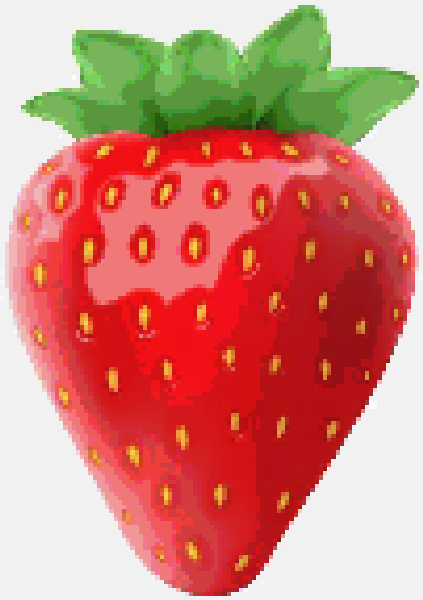
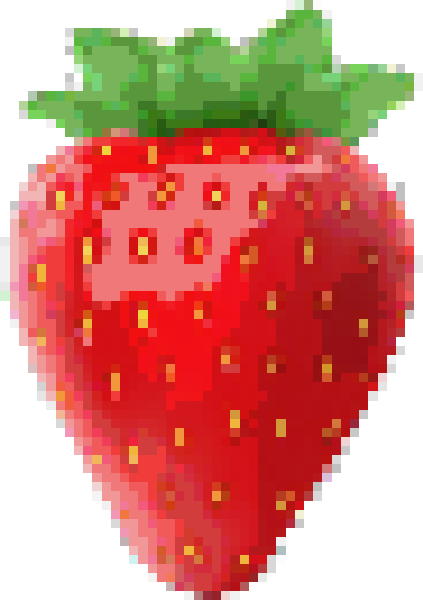
完成版

diff --git a/templates/upload.html b/templates/upload.html
@@ -22,7 +22,5 @@
                 <br><br>
                 <input type="image" src="/static/img/upload.PNG" alt="Submit" width="180" height="80">
             </form>
-        
-    </div>
 </body>
 </html>

diff --git a/make_transparent.py b/make_transparent.py
@@ -4,51 +4,15 @@ import numpy as np
 
 app = Flask(__name__)
 
-# 白色部分の透過処理を行う
-def make_transparent(img, target_color):
-    # BGR形式でのターゲット色
-    target_color_bgr = np.array(target_color[::-1])
+# 他の関数やファイルから make_transparent を呼び出せるようにする
+def make_transparent(img):
+    # アルファチャンネルを持っていない場合は作成する
+    if img.shape[2] == 3:
+        img = cv2.cvtColor(img, cv2.COLOR_BGR2BGRA)
 
-    # 白色部分に対応するマスク画像を生成
-    mask = np.all(img[:, :, :3] == [255, 255, 255], axis=-1)
-
-    # 元画像をBGR形式からBGRA形式に変換
-    img_with_alpha = cv2.cvtColor(img, cv2.COLOR_BGR2BGRA)
-
-    # マスク画像をもとに、白色部分を透明化
-    img_with_alpha[mask, 3] = 0
-
-    return img_with_alpha
-
-
-@app.route('/upload', methods=['POST'])
-def upload():
-    # フォームから送信されたファイルを取得
-    uploaded_file = request.files['file']
-
-    # ユーザーが指定したピクセルサイズを取得
-    pixel_size = int(request.form['pixel_size'])
-
-    # ユーザーが選択したファイルフォーマットを取得
-    file_format = request.form['file_format']
-
-    # 画像を透過させる処理（PNGの場合のみ）
-    if file_format == 'png':
-        img = cv2.imread(uploaded_file.filename, cv2.IMREAD_UNCHANGED)
-
-        # 透過させる処理（make_transparent関数を利用）
-        img_with_alpha = make_transparent(img, [255, 255, 255])
-
-        # 画像保存
-        cv2.imwrite("output.png", img_with_alpha)
-
-    # その他の処理（JPGの場合など）
-    return render_template('result.html', result_message='変換が完了しました。')
-
-# 通常、Pythonスクリプトは他のスクリプトからインポートされると、そのスクリプトの中身が実行されることはない。
-# しかし、直接実行された場合、__name__ は '__main__' となる。
-# この条件文は、スクリプトが直接実行された場合のみ app.run(debug=True) を実行するようにする。
-# これにより、モジュールとして他のスクリプトからインポートされたときには、app.run が実行されずに Flask アプリケーションが開始されないようになる。
-# つまり、「もしこのスクリプトが直接実行されたら、Flaskアプリをデバッグモードで実行する」という役割
-if __name__ == '__main__':
-    app.run(debug=True)
+    # 白い部分を検知してマスクを作成(whitesmoke[245,245,245])
+    white_mask = np.all(img[:, :, :3] >= [245, 245, 245], axis=-1)
+    
+    # 白い部分を無色透明にする
+    img[white_mask] = [0, 0, 0, 0]
+    return img

diff --git a/app.py b/app.py
@@ -19,6 +19,7 @@ app.config['UPLOAD_FOLDER'] = UPLOAD_FOLDER
 def index():
     return render_template('upload.html')
 
+
 # @app.route('/upload', methods=['POST']) によって定義されており、HTTPメソッドがPOSTであるリクエストに対応
 @app.route('/upload', methods=['POST'])
 def upload():
@@ -46,7 +47,7 @@ def upload():
         # 画像の読み込みと処理
         """ cv2.imread() は、指定されたファイルから画像を読み込み
             img は、OpenCVのNumPy配列として画像が格納"""
-        img = cv2.imread(filename)
+        img = cv2.imread(filename,cv2.IMREAD_UNCHANGED)
 
         """request.form['pixel_size'] は、アップロードされたフォームデータからピクセルサイズに関する値を取得。
             この値はフォームから送信されたもので、ユーザーが指定したピクセルサイズを表します。
@@ -63,9 +64,11 @@ def upload():
 
         elif request.form['file_format'] == 'png':
             # 透過処理も追加（未完成）
-            img_with_alpha = make_transparent(img, (255, 255, 255))
+            img_with_alpha = make_transparent(img)
             mosaic_img = mosaic(img_with_alpha, alpha)
             dc_img = decreaseColor(mosaic_img)
+            print(img_with_alpha)
+            
 
         # 処理結果の保存
         result_filename = os.path.join(app.config['UPLOAD_FOLDER'], 'result_image.' + request.form['file_format'])
@@ -81,5 +84,8 @@ def upload():
     app.run(debug=True) は、Flaskアプリケーションをデバッグモードで実行するためのメソッド
     このコードの目的は、スクリプトが直接実行されるときに、Flaskアプリケーションを起動すること。
     通常、開発段階では debug=True を使用して簡単にデバッグできるようにし、本番環境では debug=False や app.run() を省略して運用が推奨"""
+
+
+
 if __name__ == '__main__':
     app.run(debug=True)
